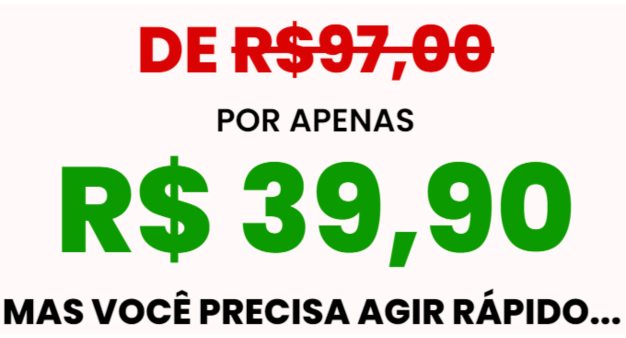
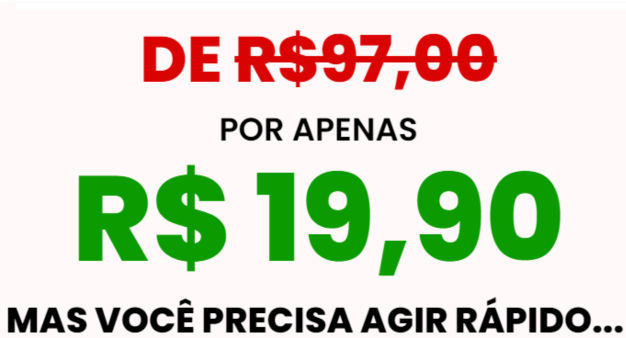
Add files via upload

diff --git a/index.html b/index.html
@@ -521,7 +521,7 @@ var pysOptions = {"staticEvents":{"facebook":{"init_event":[{"delay":0,"type":"s
                                 <div class="elementor-widget-container"> 
                                     <p><strong>A proposta é simples e clara…</strong></p>
                                     <p>O guia mais eficaz e completo que você já viu. E por um valor especial que cabe no seu bolso.</p>
-                                    <p><strong>HOJE VOCÊ ESTÁ TENDO A CHANCE DE LEVAR TUDO ISSO POR APENAS R$ 39,90</strong></p>
+                                    <p><strong>HOJE VOCÊ ESTÁ TENDO A CHANCE DE LEVAR TUDO ISSO POR APENAS R$ 19,90</strong></p>
                                     <p>Sem pegadinhas, pagamento único e acesso vitalício.</p> 
                                 </div>                                 
                             </div>                             
@@ -544,7 +544,7 @@ var pysOptions = {"staticEvents":{"facebook":{"init_event":[{"delay":0,"type":"s
                             <div class="elementor-element elementor-element-45239151 elementor-widget elementor-widget-heading" data-id="45239151" data-element_type="widget" data-widget_type="heading.default"> 
                                 <div class="elementor-widget-container"> 
                                     <h2 class="elementor-heading-title elementor-size-default">Garanta tudo isso
-por apenas R$ 39,90 enquanto é tempo.</h2> 
+por apenas R$ 19,90 enquanto é tempo.</h2> 
                                 </div>                                 
                             </div>                             
                             <div class="elementor-element elementor-element-599b7072 elementor-widget elementor-widget-image" data-id="599b7072" data-element_type="widget" data-widget_type="image.default"> 
@@ -612,12 +612,12 @@ por apenas R$ 39,90 enquanto é tempo.</h2>
                             </div>                             
                             <div class="elementor-element elementor-element-396b3314 elementor-widget elementor-widget-heading" data-id="396b3314" data-element_type="widget" data-widget_type="heading.default"> 
                                 <div class="elementor-widget-container"> 
-                                    <h2 class="elementor-heading-title elementor-size-default">Por que somente R$39,90 ?</h2> 
+                                    <h2 class="elementor-heading-title elementor-size-default">Por que somente R$19,90 ?</h2> 
                                 </div>                                 
                             </div>                             
                             <div class="elementor-element elementor-element-74ab3265 elementor-widget elementor-widget-text-editor" data-id="74ab3265" data-element_type="widget" data-widget_type="text-editor.default"> 
                                 <div class="elementor-widget-container"> 
-                                    <p>Se você prestar atenção, o valor de R$ 39,90 não parece ser um valor aleatório para cobrar em um produto (e de fato não é).</p>
+                                    <p>Se você prestar atenção, o valor de R$ 19,90 não parece ser um valor aleatório para cobrar em um produto (e de fato não é).</p>
                                     <p><strong>Razão número 01:</strong> O valor não se torna um obstáculo para ninguém.</p>
                                     <p><strong>Razão número 02:</strong> Proteção contra curiosos.</p>
                                     <p>Mesmo que o investimento seja baixo, o simples fato de cobrar já afasta curiosos em busca de &ldquo;soluções gratuitas&rdquo; na internet.</p>
